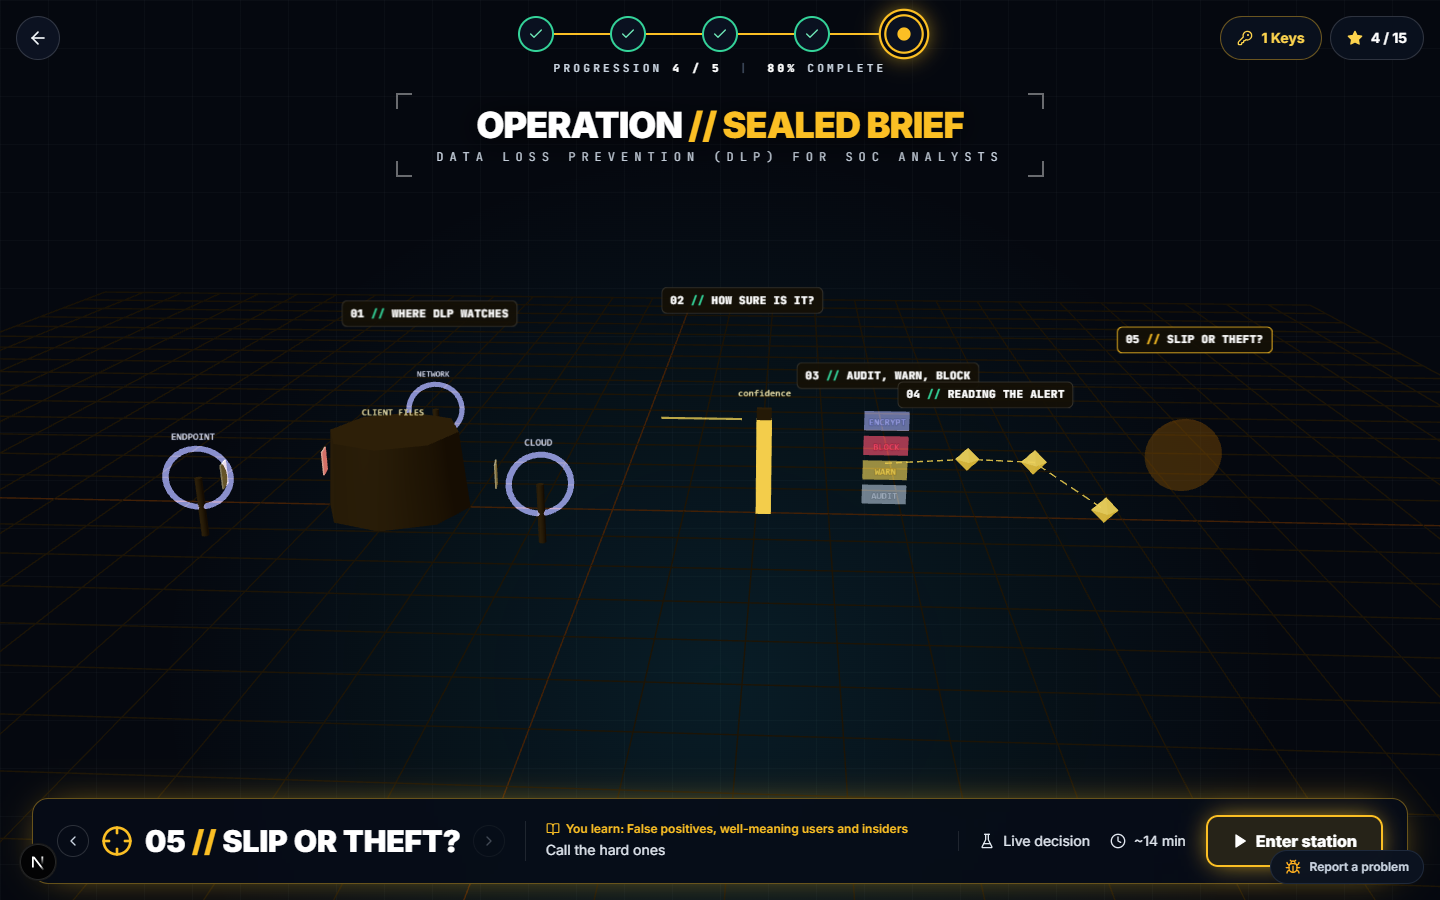
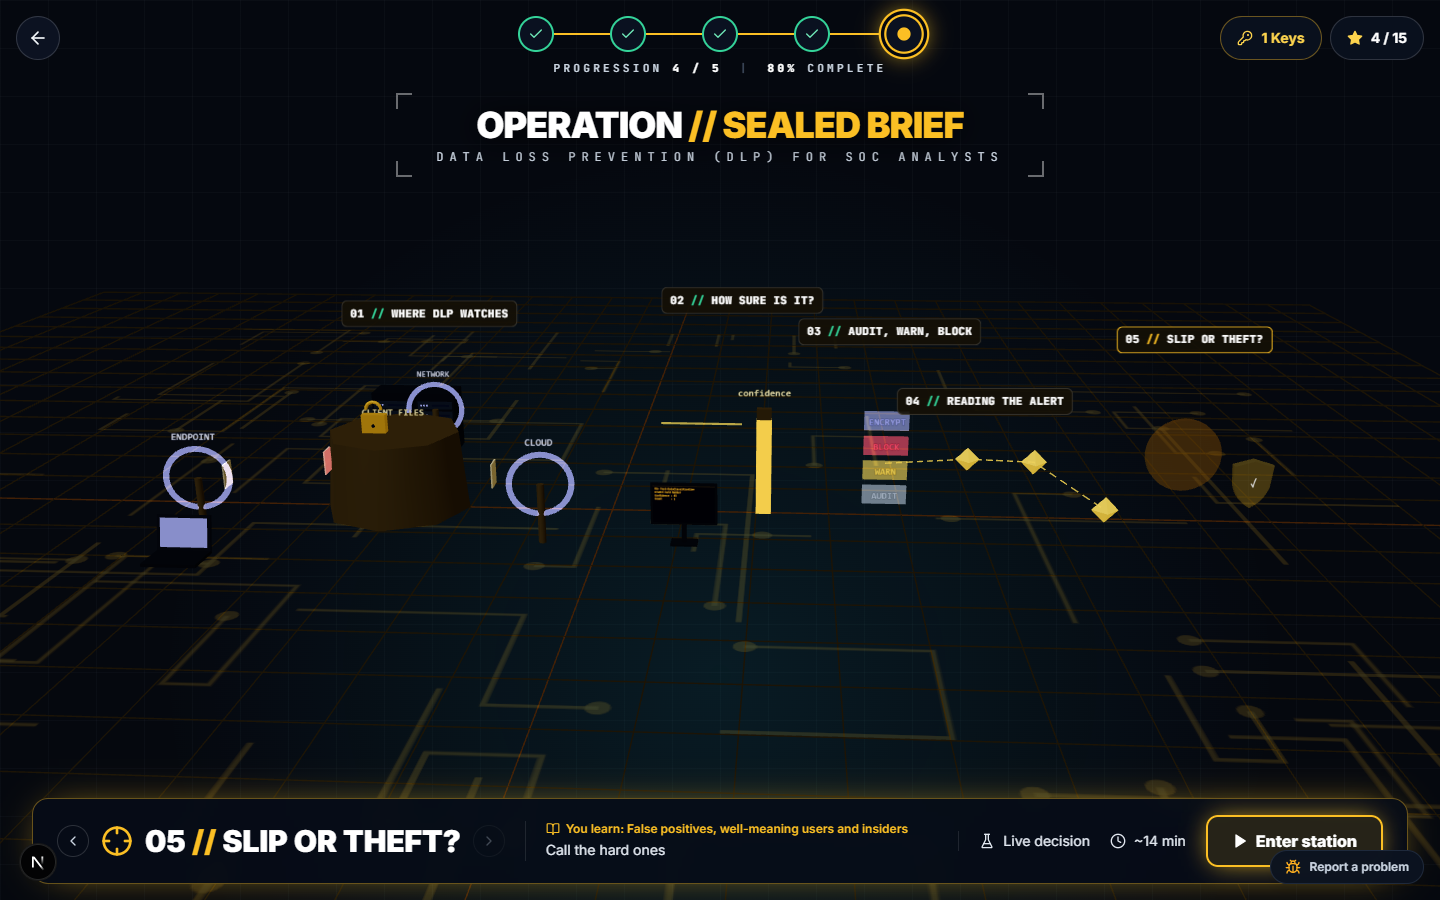
feat(rooms): cyber prop kit in the worlds of rooms 29-34 and 36
Circuit floors, server racks with live LEDs, terminals showing each
room's own commands, laptops, shields and padlocks added to the Sealed
Brief, Spare Key, Same Shell, Quiet Climb, Common Tongue, Keystone and
Clear Sky scenes.

diff --git a/src/components/operation/scenes/SealedBriefScene.tsx b/src/components/operation/scenes/SealedBriefScene.tsx
@@ -2,6 +2,7 @@
 import React, { useEffect, useRef } from "react";
 import * as THREE from "three";
 import { additive, mountWorld, pad2, placeLabel, shortLabel, type WorldProps } from "./common";
+import { circuitFloor, laptop, padlock, serverRack, shield, terminal } from "./cyberProps";
 
 /**
  * "The sealed brief": a vault of document cards at the centre with three
@@ -44,6 +45,13 @@ export default function SealedBriefScene(props: WorldProps) {
     key.position.set(-6, 14, 12);
     scene.add(key);
     scene.add(new THREE.GridHelper(60, 30, 0x422006, 0x1c1406));
+    const floor = circuitFloor(A, 44); scene.add(floor.mesh);
+    const kitLap = laptop(B); kitLap.group.position.set(-10.5, 0, 4.2); kitLap.group.scale.setScalar(1.4); scene.add(kitLap.group);
+    const kitRack = serverRack(B, 5); kitRack.group.position.set(-7.6, 0, -5.4); scene.add(kitRack.group);
+    const kitRack2 = serverRack(B, 5); kitRack2.group.position.set(-6.2, 0, -5.4); scene.add(kitRack2.group);
+    const kitLock = padlock(A, 0.9); kitLock.group.position.set(-6, 2.9, 1.6); scene.add(kitLock.group);
+    const kitTerm = terminal(["PS> Test-DataClassification", "Credit Card Number", "Confidence : 85", "Count      : 1"], A, 1.6, 1); kitTerm.group.position.set(2.2, 0, 2.4); scene.add(kitTerm.group);
+    const kitShield = shield(A, "check", 0.9); kitShield.group.position.set(16.2, 2.2, 3); scene.add(kitShield.group);
     const metal = () => new THREE.MeshStandardMaterial({ color: 0x6b5a32, emissive: 0x1f1608, metalness: 0.55, roughness: 0.4 });
 
     // the document vault
@@ -139,6 +147,12 @@ export default function SealedBriefScene(props: WorldProps) {
         const target = !s ? 0 : s.status === "cleared" ? 1 : s.status === "open" ? 0.1 + pulse * 0.15 : 0;
         level[k] += (target - level[k]) * ease;
       }
+      kitRack.tick(t, 0.4 + level[0] * 0.6, rm); kitRack2.tick(t, 0.4 + level[0] * 0.6, rm);
+      kitLap.screenMat.opacity = 0.3 + level[0] * 0.6;
+      kitTerm.screenMat.opacity = 0.35 + level[1] * 0.6;
+      kitLock.setOpen(level[3] > 0.5 ? 1 - level[4] : 0.6);
+      kitShield.mat.opacity = 0.2 + level[4] * 0.8;
+      floor.mat.opacity = 0.18 + level[4] * 0.25;
 
       const yaw = rm ? 0 : Math.sin(t * 0.07) * 0.2;
       camera.position.set(Math.sin(yaw) * dist + 3, dist * (portrait ? 0.6 : 0.42) + 1, Math.cos(yaw) * dist + 6);

diff --git a/src/components/operation/scenes/ObjectPipeScene.tsx b/src/components/operation/scenes/ObjectPipeScene.tsx
@@ -2,6 +2,7 @@
 import React, { useEffect, useRef } from "react";
 import * as THREE from "three";
 import { additive, mountWorld, pad2, placeLabel, shortLabel, type WorldProps } from "./common";
+import { circuitFloor, serverRack, shield, terminal } from "./cyberProps";
 
 /**
  * "Object pipe": two consoles at either end of a long glass pipe. One is the
@@ -43,6 +44,11 @@ export default function ObjectPipeScene(props: WorldProps) {
     key.position.set(-6, 14, 12);
     scene.add(key);
     scene.add(new THREE.GridHelper(60, 30, 0x0c4a6e, 0x0a1622));
+    const floor = circuitFloor(A, 44); scene.add(floor.mesh);
+    const kitAnalyst = terminal(["PS> Get-Process |", "  Where-Object {$_.CPU -gt 100}", "  | Select Name, Id, CPU, Path"], A, 1.9, 1.15); kitAnalyst.group.position.set(-12.4, 0, 3.4); kitAnalyst.group.rotation.y = 0.6; scene.add(kitAnalyst.group);
+    const kitAttacker = terminal(["powershell -nop -w hidden", "  -enc SQBFAFgAIAAo...", "parent: EXCEL.EXE"], Wn, 1.9, 1.15); kitAttacker.group.position.set(-12.4, 0, -4.2); kitAttacker.group.rotation.y = 0.6; scene.add(kitAttacker.group);
+    const kitHost = serverRack(A, 6, "OVEN-CTL-02"); kitHost.group.position.set(13.5, 0, 1.8); kitHost.group.rotation.y = -0.6; scene.add(kitHost.group);
+    const kitShield = shield(A, "check", 0.8); kitShield.group.position.set(11, 4.4, -1.5); scene.add(kitShield.group);
     const metal = () => new THREE.MeshStandardMaterial({ color: 0x334155, emissive: 0x0a0f18, metalness: 0.55, roughness: 0.4 });
 
     // ── 1 two consoles, one shell ──
@@ -140,6 +146,10 @@ export default function ObjectPipeScene(props: WorldProps) {
         const target = !s ? 0 : s.status === "cleared" ? 1 : s.status === "open" ? 0.1 + pulse * 0.15 : 0;
         level[k] += (target - level[k]) * ease;
       }
+      kitAnalyst.screenMat.opacity = 0.35 + level[0] * 0.6; kitAttacker.screenMat.opacity = 0.35 + level[0] * 0.6;
+      kitHost.tick(t, 0.4 + level[2] * 0.6, rm);
+      kitShield.mat.opacity = 0.15 + level[4] * 0.85;
+      floor.mat.opacity = 0.18 + level[1] * 0.25;
 
       const yaw = rm ? 0 : Math.sin(t * 0.07) * 0.2;
       camera.position.set(Math.sin(yaw) * dist, dist * (portrait ? 0.55 : 0.38) + 2, Math.cos(yaw) * dist + 2);

diff --git a/src/components/operation/scenes/SpareKeyScene.tsx b/src/components/operation/scenes/SpareKeyScene.tsx
@@ -2,6 +2,7 @@
 import React, { useEffect, useRef } from "react";
 import * as THREE from "three";
 import { additive, mountWorld, pad2, placeLabel, shortLabel, type WorldProps } from "./common";
+import { circuitFloor, padlock, serverRack, shield, terminal } from "./cyberProps";
 
 /**
  * "Spare keys": a host core in the middle and the hooks an attacker leaves on
@@ -55,6 +56,12 @@ export default function SpareKeyScene(props: WorldProps) {
     scene.add(key);
     const grid = new THREE.GridHelper(60, 30, 0x064e3b, 0x0b1f1a);
     scene.add(grid);
+    const floor = circuitFloor(A, 44); scene.add(floor.mesh);
+    const kitRackL = serverRack(A, 7); kitRackL.group.position.set(-1.9, 0, -2.2); scene.add(kitRackL.group);
+    const kitRackR = serverRack(A, 7); kitRackR.group.position.set(1.9, 0, -2.2); scene.add(kitRackR.group);
+    const kitTerm = terminal(["C:\\> reg query HKCU\\...\\Run", "  OneDrive  REG_SZ ...", "  AdobeSyncHelper REG_SZ", "  ...\\adbsync\\syncsvc.exe"], Wn, 1.8, 1.1); kitTerm.group.position.set(-6.4, 0, 2.6); kitTerm.group.rotation.y = 0.5; scene.add(kitTerm.group);
+    const kitLock = padlock(A, 1); kitLock.group.position.set(0, 5.4, 1.6); scene.add(kitLock.group);
+    const kitShield = shield(B, "check", 0.9); kitShield.group.position.set(4.4, 7, 0); scene.add(kitShield.group);
     const metal = () => new THREE.MeshStandardMaterial({ color: 0x2f4a44, emissive: 0x08130f, metalness: 0.55, roughness: 0.4 });
 
     // the host core
@@ -145,6 +152,11 @@ export default function SpareKeyScene(props: WorldProps) {
         const target = !s ? 0 : s.status === "cleared" ? 1 : s.status === "open" ? 0.1 + pulse * 0.15 : 0;
         level[k] += (target - level[k]) * ease;
       }
+      kitRackL.tick(t, 0.4 + level[0] * 0.6, rm); kitRackR.tick(t, 0.4 + level[2] * 0.6, rm);
+      kitTerm.screenMat.opacity = 0.3 + level[0] * 0.65;
+      kitLock.setOpen(1 - level[4]);
+      kitShield.mat.opacity = 0.15 + level[4] * 0.85;
+      floor.mat.opacity = 0.18 + level[4] * 0.25;
 
       const yaw = rm ? 0 : Math.sin(t * 0.07) * 0.25;
       camera.position.set(Math.sin(yaw) * dist + 2, dist * (portrait ? 0.55 : 0.4) + 2, Math.cos(yaw) * dist);

diff --git a/src/components/operation/scenes/IntegrityLadderScene.tsx b/src/components/operation/scenes/IntegrityLadderScene.tsx
@@ -2,6 +2,7 @@
 import React, { useEffect, useRef } from "react";
 import * as THREE from "three";
 import { additive, mountWorld, pad2, placeLabel, shortLabel, type WorldProps } from "./common";
+import { circuitFloor, padlock, serverRack, shield, terminal } from "./cyberProps";
 
 /**
  * "Integrity ladder": four stacked glass decks (LOW, MEDIUM, HIGH, SYSTEM) and
@@ -43,6 +44,11 @@ export default function IntegrityLadderScene(props: WorldProps) {
     key.position.set(-6, 14, 12);
     scene.add(key);
     scene.add(new THREE.GridHelper(60, 30, 0x4a1d3a, 0x170a14));
+    const floor = circuitFloor(A, 44); scene.add(floor.mesh);
+    const kitRack = serverRack(B, 8, "DISP-DESK-11"); kitRack.group.position.set(-6.4, 0, 2.6); kitRack.group.rotation.y = 0.5; scene.add(kitRack.group);
+    const kitTerm = terminal(["C:\\> whoami /priv", "SeImpersonatePrivilege  Enabled", "SeChangeNotifyPrivilege Enabled"], B, 1.8, 1.05); kitTerm.group.position.set(5.6, 0, 3.2); kitTerm.group.rotation.y = -0.5; scene.add(kitTerm.group);
+    const kitLock = padlock(Wn, 0.8); kitLock.group.position.set(1.8, 0.3 + 3 * 2.2 + 1.7, -0.8); scene.add(kitLock.group);
+    const kitShield = shield(A, "check", 0.9); kitShield.group.position.set(-3.6, 0.3 + 3 * 2.2 + 1.6, 1.4); scene.add(kitShield.group);
     const metal = () => new THREE.MeshStandardMaterial({ color: 0x3f3346, emissive: 0x0c070e, metalness: 0.55, roughness: 0.4 });
 
     // ── 1 four decks ──
@@ -124,6 +130,11 @@ export default function IntegrityLadderScene(props: WorldProps) {
         const target = !s ? 0 : s.status === "cleared" ? 1 : s.status === "open" ? 0.1 + pulse * 0.15 : 0;
         level[k] += (target - level[k]) * ease;
       }
+      kitRack.tick(t, 0.4 + level[0] * 0.6, rm);
+      kitTerm.screenMat.opacity = 0.3 + level[3] * 0.65;
+      kitLock.setOpen(level[1]);
+      kitShield.mat.opacity = 0.15 + level[4] * 0.85;
+      floor.mat.opacity = 0.18 + level[4] * 0.25;
 
       const yaw = rm ? 0.3 : 0.3 + Math.sin(t * 0.07) * 0.25;
       camera.position.set(Math.sin(yaw) * dist, dist * (portrait ? 0.45 : 0.32) + 4, Math.cos(yaw) * dist);

diff --git a/src/components/operation/scenes/DomainTreeScene.tsx b/src/components/operation/scenes/DomainTreeScene.tsx
@@ -2,6 +2,7 @@
 import React, { useEffect, useRef } from "react";
 import * as THREE from "three";
 import { additive, mountWorld, pad2, placeLabel, shortLabel, type WorldProps } from "./common";
+import { circuitFloor, laptop, serverRack, shield as shieldProp } from "./cyberProps";
 
 /**
  * "Keystone": a domain controller keystone at the centre of a ring of domain
@@ -43,6 +44,11 @@ export default function DomainTreeScene(props: WorldProps) {
     key.position.set(-6, 14, 12);
     scene.add(key);
     scene.add(new THREE.GridHelper(60, 30, 0x0e4a52, 0x081417));
+    const floor = circuitFloor(A, 44); scene.add(floor.mesh);
+    const kitDCs = [-1.5, 1.5].map(x => { const r = serverRack(A, 7); r.group.position.set(x, 0, -2); scene.add(r.group); return r; });
+    const kitLap = laptop(A); kitLap.group.position.set(-4.5, 0, 5.4); kitLap.group.scale.setScalar(1.5); scene.add(kitLap.group);
+    const kitFs = serverRack(B, 5); kitFs.group.position.set(5.8, 0, 4.4); kitFs.group.rotation.y = -0.4; scene.add(kitFs.group);
+    const kitShield = shieldProp(B, "check", 0.9); kitShield.group.position.set(-2.4, 5.6, 0); scene.add(kitShield.group);
     const metal = () => new THREE.MeshStandardMaterial({ color: 0x4f7480, emissive: 0x0f2328, metalness: 0.55, roughness: 0.4 });
 
     // the DC keystone
@@ -137,6 +143,10 @@ export default function DomainTreeScene(props: WorldProps) {
         const target = !s ? 0 : s.status === "cleared" ? 1 : s.status === "open" ? 0.1 + pulse * 0.15 : 0;
         level[k] += (target - level[k]) * ease;
       }
+      kitDCs.forEach(r => r.tick(t, 0.5 + level[0] * 0.5, rm)); kitFs.tick(t, 0.3 + level[1] * 0.7, rm);
+      kitLap.screenMat.opacity = 0.3 + level[1] * 0.6;
+      kitShield.mat.opacity = 0.15 + level[3] * 0.85;
+      floor.mat.opacity = 0.18 + level[4] * 0.25;
 
       const yaw = rm ? 0 : Math.sin(t * 0.07) * 0.3;
       camera.position.set(Math.sin(yaw) * dist, dist * (portrait ? 0.55 : 0.42) + 2, Math.cos(yaw) * dist);

diff --git a/src/components/operation/scenes/SkyQueryScene.tsx b/src/components/operation/scenes/SkyQueryScene.tsx
@@ -2,6 +2,7 @@
 import React, { useEffect, useRef } from "react";
 import * as THREE from "three";
 import { additive, mountWorld, pad2, placeLabel, shortLabel, type WorldProps } from "./common";
+import { circuitFloor, serverRack, shield, terminal } from "./cyberProps";
 
 /**
  * "Clear sky": a translucent workspace sphere floating above a row of table
@@ -45,6 +46,10 @@ export default function SkyQueryScene(props: WorldProps) {
     key.position.set(-6, 14, 12);
     scene.add(key);
     scene.add(new THREE.GridHelper(60, 30, 0x0c4a6e, 0x08121c));
+    const floor = circuitFloor(A, 44); scene.add(floor.mesh);
+    const kitRacks = [-9.6, -8.2].map(x => { const r = serverRack(B, 5); r.group.position.set(x, 0, -3.4); r.group.rotation.y = 0.4; scene.add(r.group); return r; });
+    const kitTerm = terminal(["SigninLogs", "| where ResultType == \"0\"", "| summarize dcount(Location)", "  by UserPrincipalName"], A, 2, 1.2); kitTerm.group.position.set(-4.4, 0, 3.6); kitTerm.group.rotation.y = 0.35; scene.add(kitTerm.group);
+    const kitShield = shield(Wn, "alert", 0.8); kitShield.group.position.set(8.6, 5, 1); scene.add(kitShield.group);
 
     // the workspace sphere
     const sphMat = new THREE.MeshStandardMaterial({ color: A, emissive: A, emissiveIntensity: 0.1, transparent: true, opacity: 0.15, depthWrite: false });
@@ -117,6 +122,10 @@ export default function SkyQueryScene(props: WorldProps) {
         const target = !s ? 0 : s.status === "cleared" ? 1 : s.status === "open" ? 0.1 + pulse * 0.15 : 0;
         level[k] += (target - level[k]) * ease;
       }
+      kitRacks.forEach(r => r.tick(t, 0.4 + level[0] * 0.6, rm));
+      kitTerm.screenMat.opacity = 0.3 + level[1] * 0.65;
+      kitShield.mat.opacity = 0.2 + level[2] * 0.8;
+      floor.mat.opacity = 0.18 + level[4] * 0.25;
 
       const yaw = rm ? 0 : Math.sin(t * 0.07) * 0.2;
       camera.position.set(Math.sin(yaw) * dist + 0.5, dist * (portrait ? 0.5 : 0.36) + 3, Math.cos(yaw) * dist);

diff --git a/src/components/operation/scenes/MatrixWallScene.tsx b/src/components/operation/scenes/MatrixWallScene.tsx
@@ -2,6 +2,7 @@
 import React, { useEffect, useRef } from "react";
 import * as THREE from "three";
 import { additive, mountWorld, pad2, placeLabel, shortLabel, type WorldProps } from "./common";
+import { circuitFloor, serverRack, shield, terminal } from "./cyberProps";
 
 /**
  * "Matrix wall": a curved wall of fifteen tactic columns, each a stack of
@@ -49,6 +50,10 @@ export default function MatrixWallScene(props: WorldProps) {
     key.position.set(-6, 14, 12);
     scene.add(key);
     scene.add(new THREE.GridHelper(60, 30, 0x3f1d1d, 0x140909));
+    const floor = circuitFloor(A, 48); scene.add(floor.mesh);
+    const kitTerm = terminal(["AlertInfo | Category:", "  CredentialAccess", "AttackTechniques:", "  T1003, T1003.001"], A, 1.9, 1.15); kitTerm.group.position.set(6, 0, 7.4); kitTerm.group.rotation.y = -0.3; scene.add(kitTerm.group);
+    const kitRacks = [-9, -7.6].map(x => { const r = serverRack(B, 5); r.group.position.set(x, 0, 7); r.group.rotation.y = 0.4; scene.add(r.group); return r; });
+    const kitShield = shield(A, "check", 1); kitShield.group.position.set(0, 7.4, -1); scene.add(kitShield.group);
 
     // the curved wall: column i sits on an arc
     const R = 16, SPAN = 1.6;
@@ -111,6 +116,10 @@ export default function MatrixWallScene(props: WorldProps) {
         const target = !s ? 0 : s.status === "cleared" ? 1 : s.status === "open" ? 0.1 + pulse * 0.15 : 0;
         level[k] += (target - level[k]) * ease;
       }
+      kitRacks.forEach(r => r.tick(t, 0.4 + level[2] * 0.6, rm));
+      kitTerm.screenMat.opacity = 0.3 + level[3] * 0.65;
+      kitShield.mat.opacity = 0.15 + level[4] * 0.85;
+      floor.mat.opacity = 0.16 + level[4] * 0.2;
 
       const yaw = rm ? 0 : Math.sin(t * 0.06) * 0.15;
       camera.position.set(Math.sin(yaw) * dist, dist * (portrait ? 0.4 : 0.28) + 3, Math.cos(yaw) * dist + 4);
